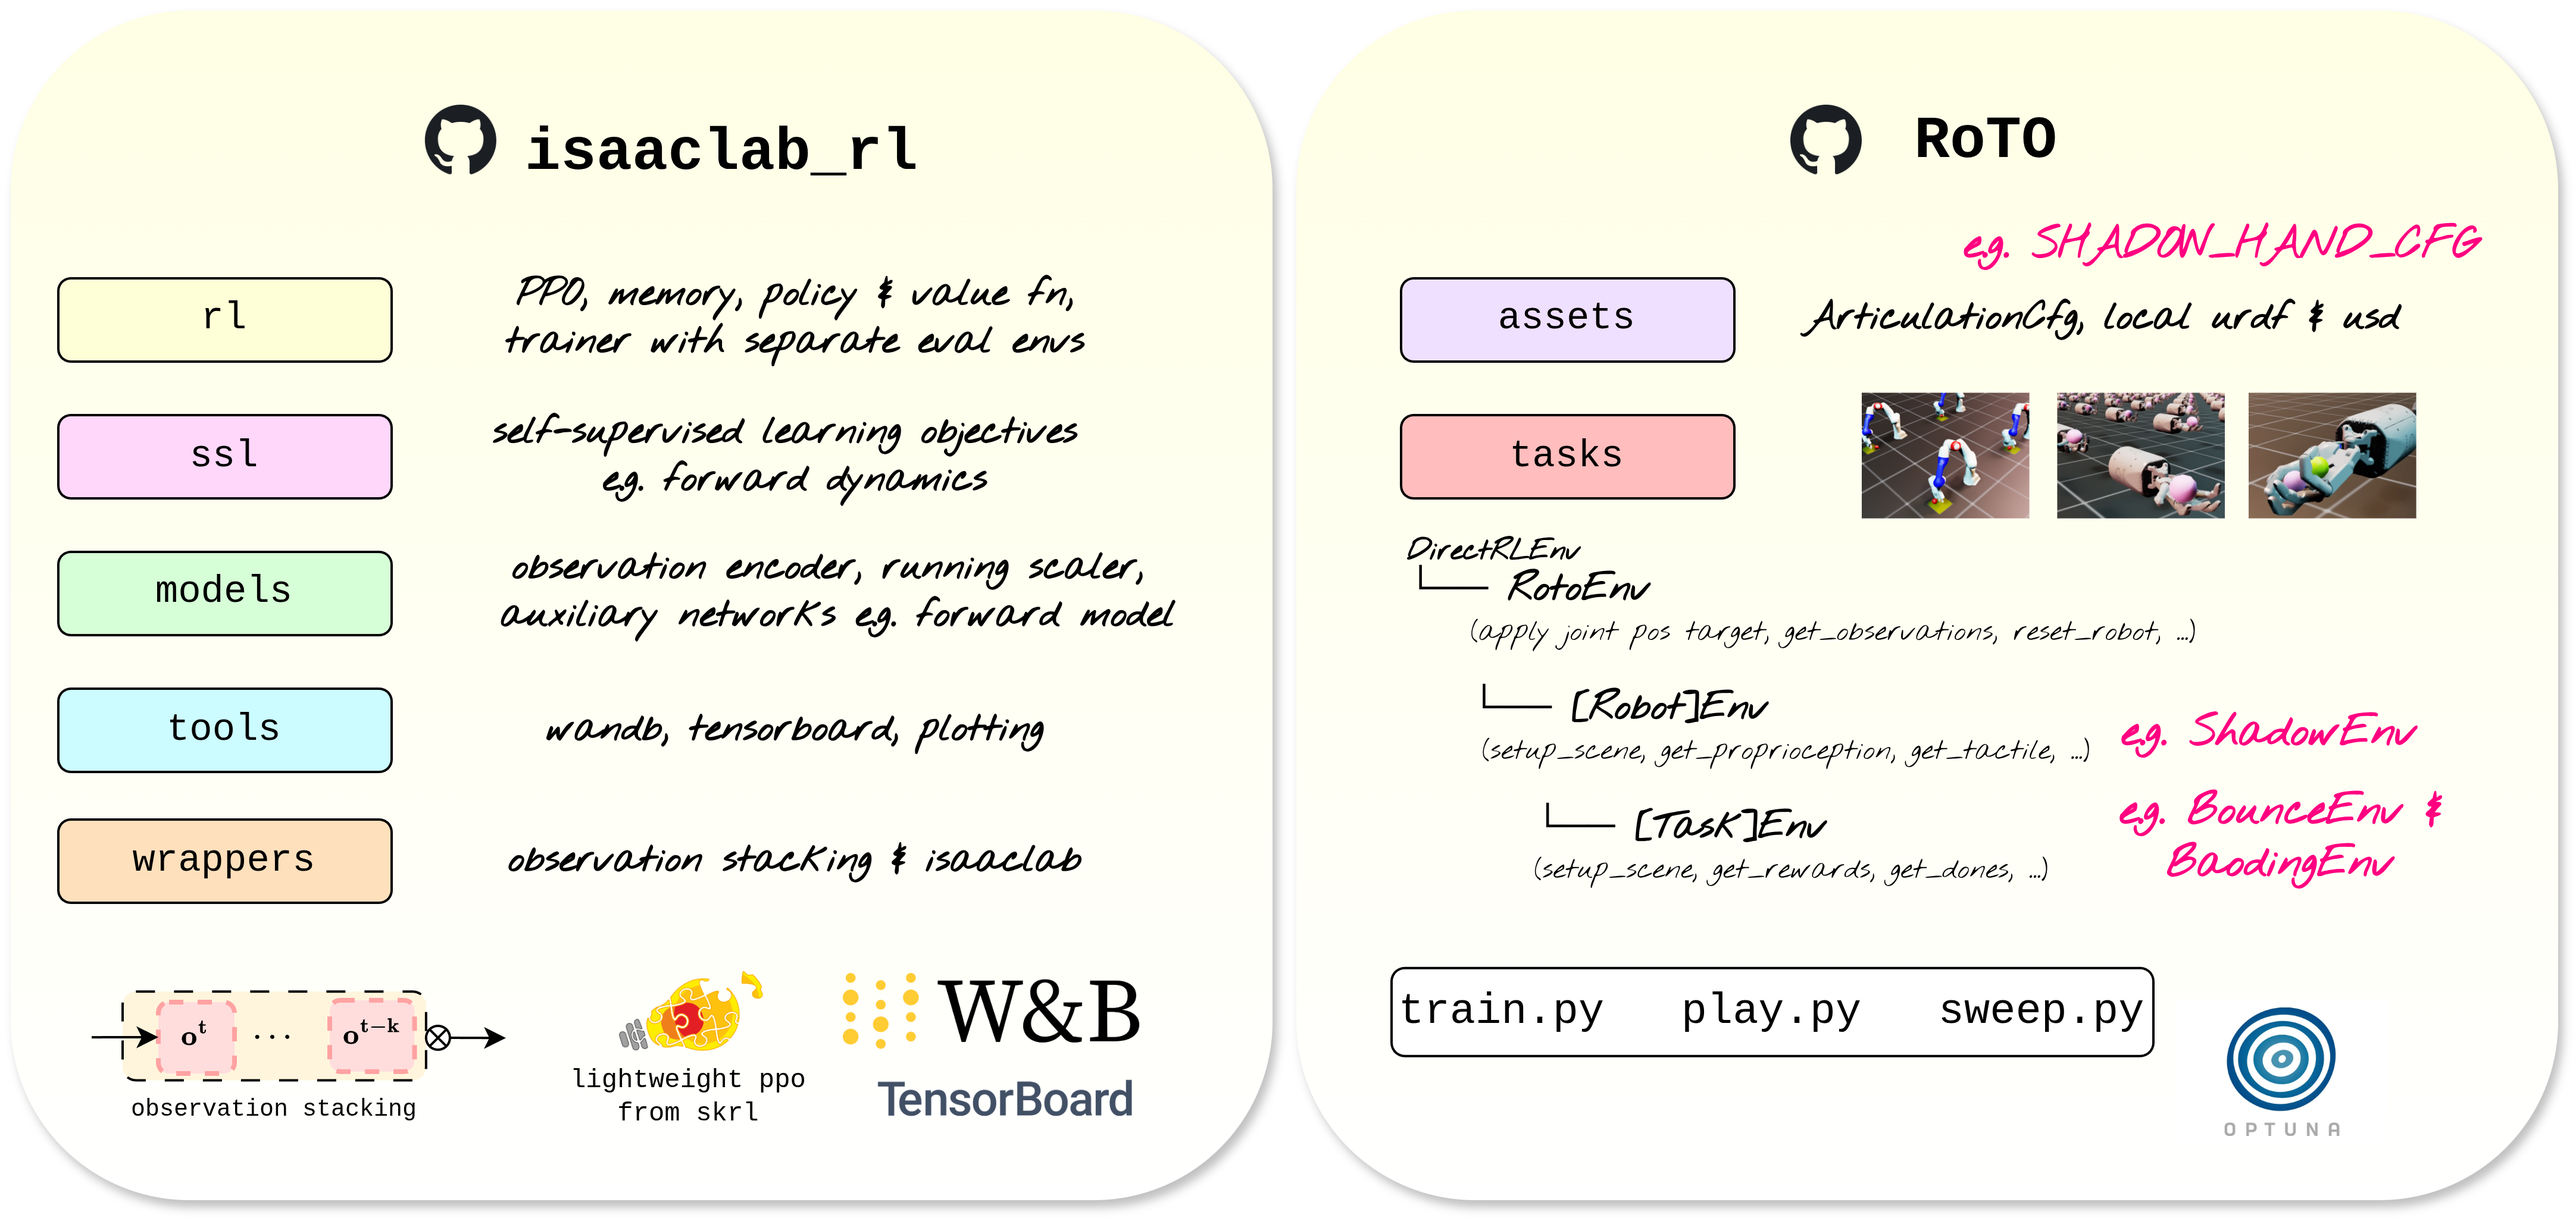
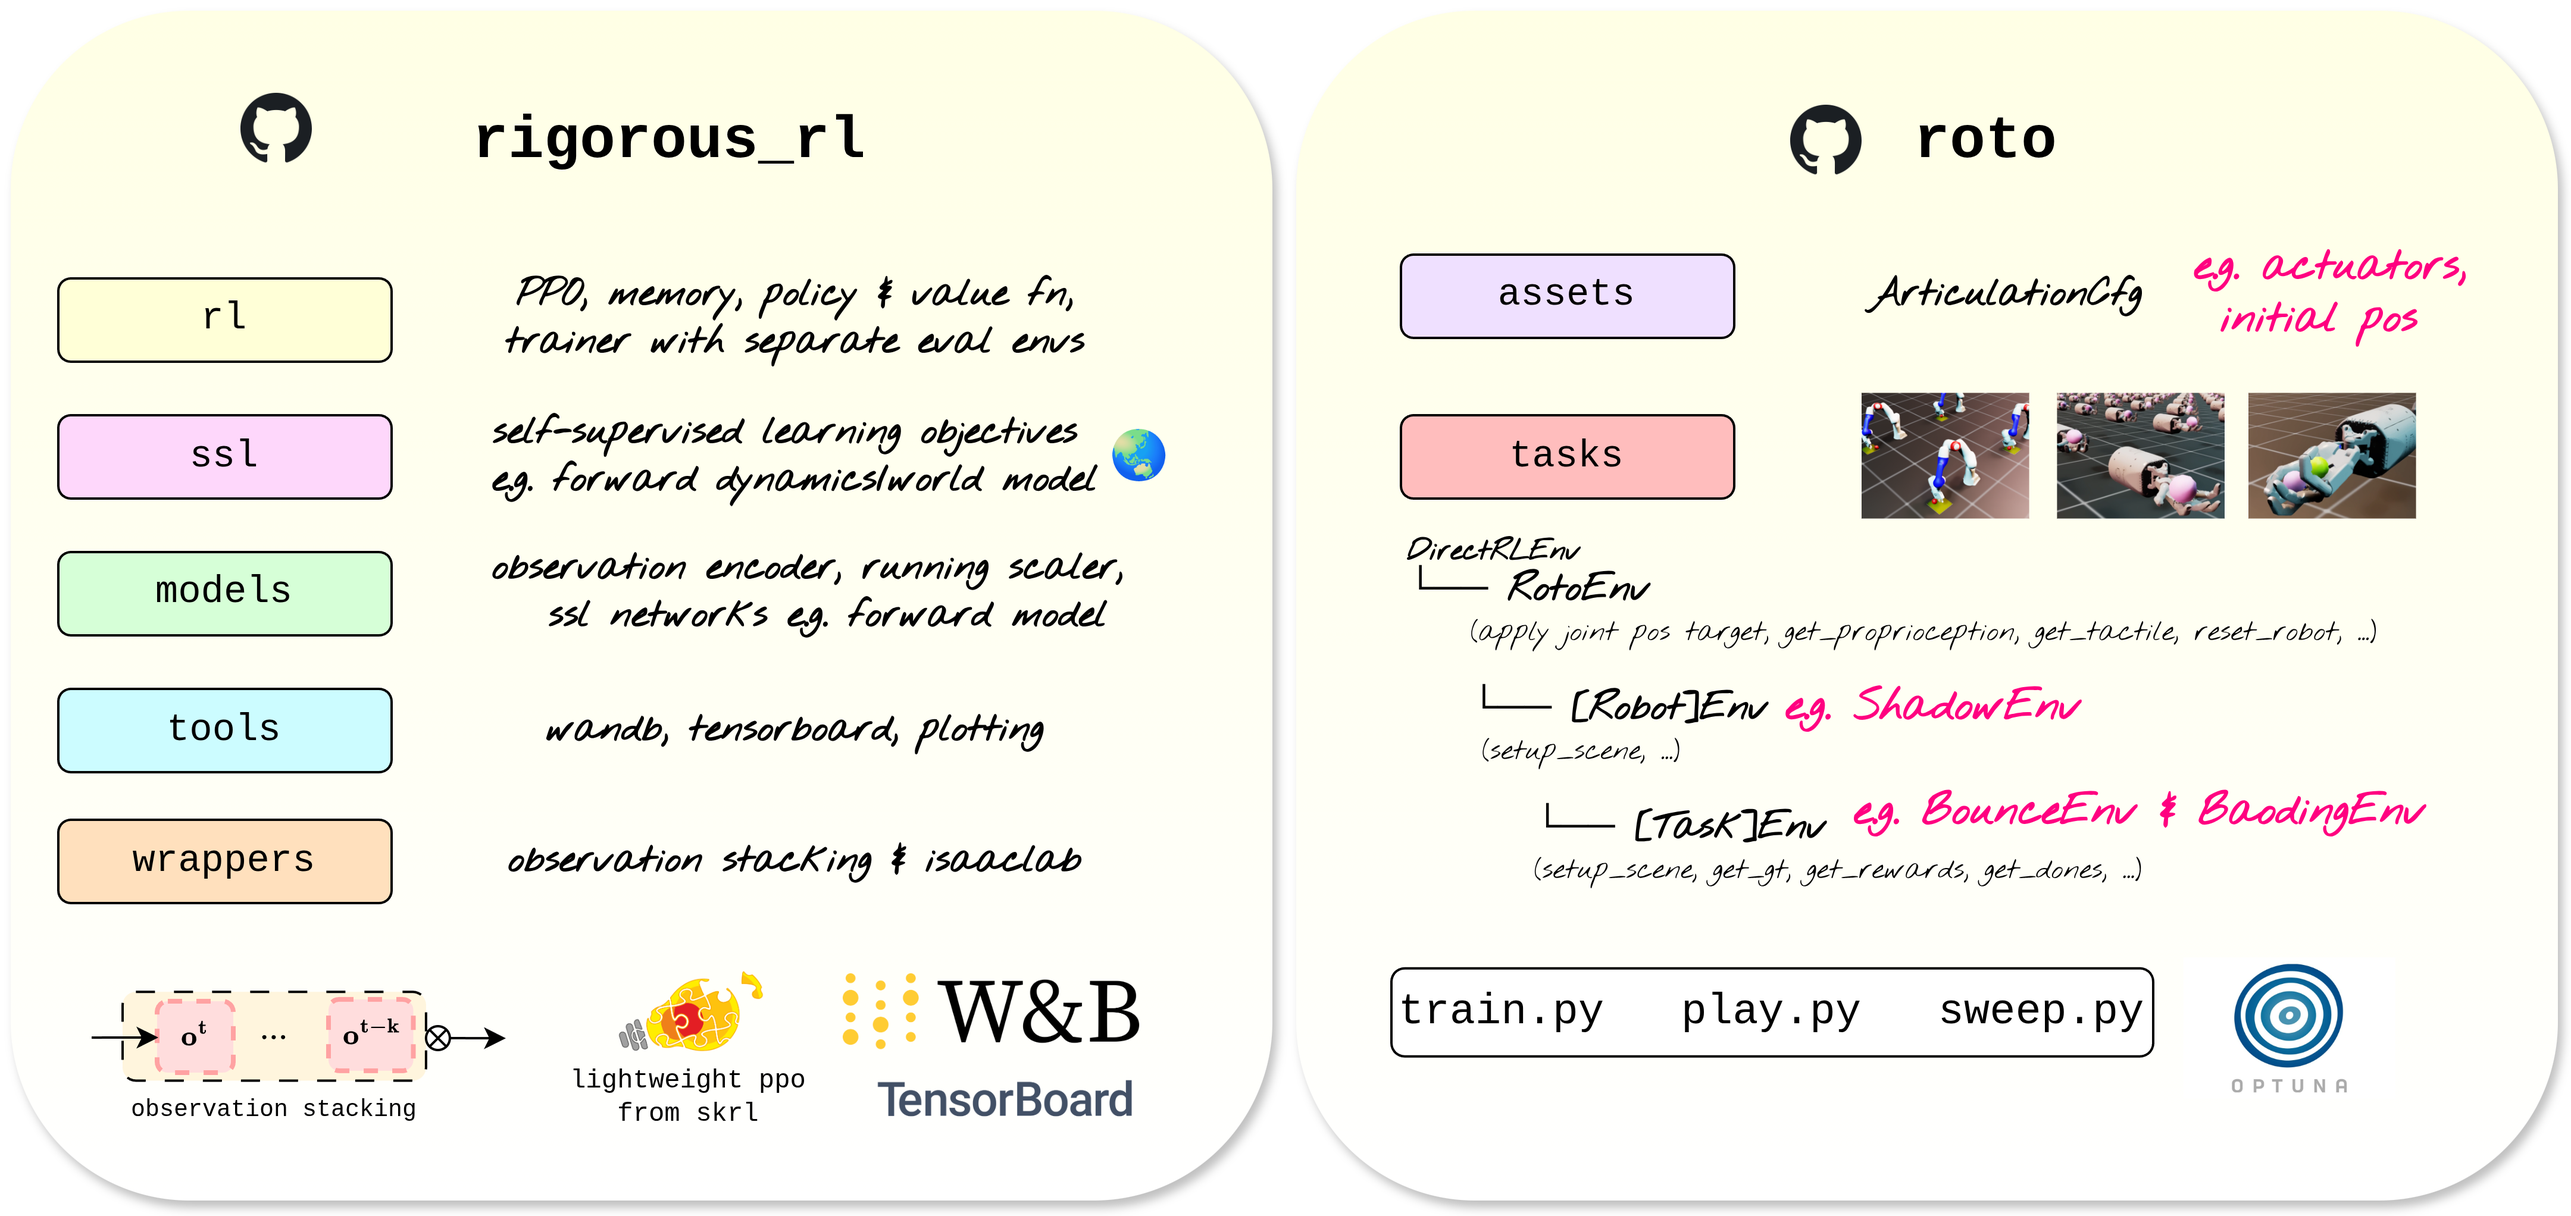
update isaaclab_rl to rigorous_rl

diff --git a/scripts/common_utils.py b/scripts/common_utils.py
@@ -6,16 +6,16 @@ import os
 import random
 import torch
 
-from isaaclab_rl.models.encoder import Encoder
-from isaaclab_rl.models.running_standard_scaler import RunningStandardScaler
-from isaaclab_rl.rl.memories import Memory
-from isaaclab_rl.rl.policy_value import DeterministicValue, GaussianPolicy
-from isaaclab_rl.rl.ppo import PPO, PPO_DEFAULT_CONFIG
-from isaaclab_rl.rl.trainer import Trainer
-from isaaclab_rl.ssl.dynamics import ForwardDynamics
-from isaaclab_rl.ssl.reconstruction import Reconstruction
-from isaaclab_rl.wrappers.frame_stack import FrameStack
-from isaaclab_rl.wrappers.isaaclab_wrapper import IsaacLabWrapper
+from rigorous_rl.models.encoder import Encoder
+from rigorous_rl.models.running_standard_scaler import RunningStandardScaler
+from rigorous_rl.rl.memories import Memory
+from rigorous_rl.rl.policy_value import DeterministicValue, GaussianPolicy
+from rigorous_rl.rl.ppo import PPO, PPO_DEFAULT_CONFIG
+from rigorous_rl.rl.trainer import Trainer
+from rigorous_rl.ssl.dynamics import ForwardDynamics
+from rigorous_rl.ssl.reconstruction import Reconstruction
+from rigorous_rl.wrappers.frame_stack import FrameStack
+from rigorous_rl.wrappers.isaaclab_wrapper import IsaacLabWrapper
 
 # Import task modules to register environments
 from roto.tasks import franka, shadow  # noqa: F401

diff --git a/roto/tasks/shadow/shadow.py b/roto/tasks/shadow/shadow.py
@@ -166,18 +166,3 @@ class ShadowEnv(RotoEnv):
 
         # Reset hand with noise
         self._reset_robot(env_ids, joint_pos_noise=self.cfg.reset_joint_pos_noise)
-
-
-@torch.jit.script
-def randomize_rotation(rand0, rand1, x_unit_tensor, y_unit_tensor):
-    """Return a quaternion composed of rotations around the X and Y axes."""
-    return quat_mul(
-        quat_from_angle_axis(rand0 * np.pi, x_unit_tensor), quat_from_angle_axis(rand1 * np.pi, y_unit_tensor)
-    )
-
-
-@torch.jit.script
-def rotation_distance(object_rot, target_rot):
-    """Orientation alignment helper between the cube in hand and goal cube."""
-    quat_diff = quat_mul(object_rot, quat_conjugate(target_rot))
-    return 2.0 * torch.asin(torch.clamp(torch.norm(quat_diff[:, 1:4], p=2, dim=-1), max=1.0))

diff --git a/scripts/train.py b/scripts/train.py
@@ -3,7 +3,7 @@
 #
 # SPDX-License-Identifier: BSD-3-Clause
 
-"""Script to train RL agent with isaaclab_rl.
+"""Script to train RL agent with rigorous_rl.
 
 Author: Elle Miller 
 """
@@ -44,7 +44,7 @@ from common_utils import LOG_PATH, make_env, train_one_seed, update_env_cfg
 from isaaclab.utils import update_dict
 from isaaclab_tasks.utils.hydra import register_task_to_hydra
 from isaaclab_tasks.utils.parse_cfg import load_cfg_from_registry
-from isaaclab_rl.tools.writer import Writer
+from rigorous_rl.tools.writer import Writer
 
 
 def main() -> None:
@@ -66,6 +66,7 @@ def main() -> None:
 
 
 if __name__ == "__main__":
+    main()
     try:
         main()
     except Exception as err:

diff --git a/scripts/play.py b/scripts/play.py
@@ -3,7 +3,7 @@
 #
 # SPDX-License-Identifier: BSD-3-Clause
 
-"""Script to play a trained RL agent with isaaclab_rl.
+"""Script to play a trained RL agent with rigorous_rl.
 
 Author: Elle Miller 
 """
@@ -57,8 +57,8 @@ from isaaclab.utils import update_dict
 from isaaclab_tasks.utils.hydra import register_task_to_hydra
 from isaaclab_tasks.utils.parse_cfg import load_cfg_from_registry
 
-from isaaclab_rl.rl.ppo import PPO, PPO_DEFAULT_CONFIG
-from isaaclab_rl.tools.writer import Writer
+from rigorous_rl.rl.ppo import PPO, PPO_DEFAULT_CONFIG
+from rigorous_rl.tools.writer import Writer
 
 
 def main():

diff --git a/scripts/sweep.py b/scripts/sweep.py
@@ -57,8 +57,8 @@ from isaaclab.utils import update_dict
 from isaaclab_tasks.utils.hydra import register_task_to_hydra
 from isaaclab_tasks.utils.parse_cfg import load_cfg_from_registry
 
-from isaaclab_rl.rl.ppo import PPO, PPO_DEFAULT_CONFIG
-from isaaclab_rl.tools.writer import Writer
+from rigorous_rl.rl.ppo import PPO, PPO_DEFAULT_CONFIG
+from rigorous_rl.tools.writer import Writer
 
 
 class OptimisationRunner:

diff --git a/setup.py b/setup.py
@@ -1,4 +1,4 @@
-"""Installation script for the 'isaaclab_rl' python package."""
+"""Installation script for the 'roto' python package."""
 
 import os
 

diff --git a/README.md b/README.md
@@ -10,9 +10,9 @@ RoTO is a **reinforcement learning benchmark environment** designed to standardi
 
 <img src="readme_assets/images/setup.png" width="1000" border="1"/>
 
-We split the paper code across two repositories. Imagine the typical RL loop: you can think of `isaaclab_rl` as the agent, and `roto` as the environment. We did this for modularity, in case you want to use your own RL repository instead of ours (there will be some integration to achieve this but happy to help).
+We split the paper code across two repositories. Imagine the typical RL loop: you can think of `rigorous_rl` as the agent, and `roto` as the environment. We did this for modularity, in case you want to use your own RL repository instead of ours (there will be some integration to achieve this but happy to help).
 
-`isaaclab_rl`: The motto of this repo is _"doing good RL with Isaac Lab as painlessly as possible"_. We started from the [skrl](https://github.com/Toni-SM/skrl) library and made significant changes to better handle multimodal dictionary observations, observation stacking and associated memory management, and integrated self-supervision. Many existing libraries did not provide support for doing robust RL research (correct evaluation metrics, distinct train/evaluation envs, integrated hyperparameter optimisation). These are well established norms in the RL research community, but are not yet consistently present in RL+robotics research, which we want to encourage 🚀
+`rigorous_rl`: The motto of this repo is _"doing good RL with Isaac Lab as painlessly as possible"_. We started from the [skrl](https://github.com/Toni-SM/skrl) library and made significant changes to better handle multimodal dictionary observations, observation stacking and associated memory management, and integrated self-supervision. Many existing libraries did not provide support for doing robust RL research (correct evaluation metrics, distinct train/evaluation envs, integrated hyperparameter optimisation). These are well established norms in the RL research community, but are not yet consistently present in RL+robotics research, which we want to encourage 🚀
 
 `roto`: This repo just contains the robot configurations and task definitions. We take advantage of class inheritance to heavily reduce repeated code. `RotoEnv` is a child of `DirectRLEnv`, and sets up basic functions to perform joint position control of a robot and reset it. `[Robot]Env` is a child of `RotoEnv`, defining robot-specific functions that do not change task-to-task, e.g. the proprioceptive observation key. Finally, `[Task]Env` defines task-specific functions such as setting up the environment, rewards, and episode resets.
 
@@ -76,9 +76,9 @@ pip install -U torch==2.7.0 torchvision==0.22.0 --index-url https://download.pyt
 # 2. install isaac lab and isaac sim as pip packages
 pip install isaaclab[isaacsim,all]==2.3.0 --extra-index-url https://pypi.nvidia.com
 
-# 3. install isaaclab_rl as local editable package
-git clone git@github.com:elle-miller/isaaclab_rl.git
-cd isaaclab_rl
+# 3. install rigorous_rl as local editable package
+git clone git@github.com:elle-miller/rigorous_rl.git
+cd rigorous_rl
 pip install -e .
 # verify installation with isaacsim
 
@@ -88,10 +88,10 @@ cd roto
 pip install -e .
 ```
 1. Install Isaac Lab (recommend [pip installation](https://isaac-sim.github.io/IsaacLab/main/source/setup/installation/isaaclab_pip_installation.html#))
-2. Install [isaaclab_rl](https://github.com/elle-miller/isaaclab_rl) as a local editable package
+2. Install [rigorous_rl](https://github.com/elle-miller/rigorous_rl) as a local editable package
 ```
-git clone git@github.com:elle-miller/isaaclab_rl.git
-cd isaaclab_rl
+git clone git@github.com:elle-miller/rigorous_rl.git
+cd rigorous_rl
 pip install -e .
 ```
 3. Install `roto` as a local editable package
